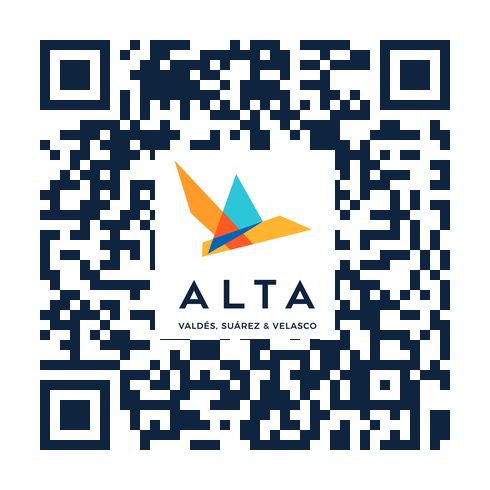
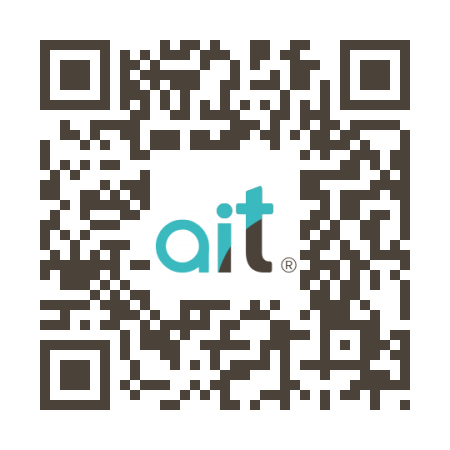
QR Code with python

diff --git a/qr.py b/qr.py
@@ -4,12 +4,12 @@ from PIL import Image
  
 # taking image which user wants
 # in the QR code center
-Logo_link = 'ALTA.jpg'
+Logo_link = 'photo.png'
  
 logo = Image.open(Logo_link)
  
 # taking base width
-basewidth = 180
+basewidth = 150
  
 # adjust image size
 wpercent = (basewidth/float(logo.size[0]))
@@ -21,7 +21,7 @@ QRcode = qrcode.QRCode(
 )
  
 # taking url or text
-url = 'https://www.vsvlegal.com/en/eo-el-salvador-noviembre-2022/'
+url = 'https://www.linkedin.com/in/raulescamilla/'
  
 # adding URL or text to QRcode
 QRcode.add_data(url)
@@ -30,7 +30,7 @@ QRcode.add_data(url)
 QRcode.make()
  
 # taking color name from user
-QRcolor = (15, 36, 63)
+QRcolor = (75, 66, 57)
  
 # adding color to QR code
 QRimg = QRcode.make_image(
